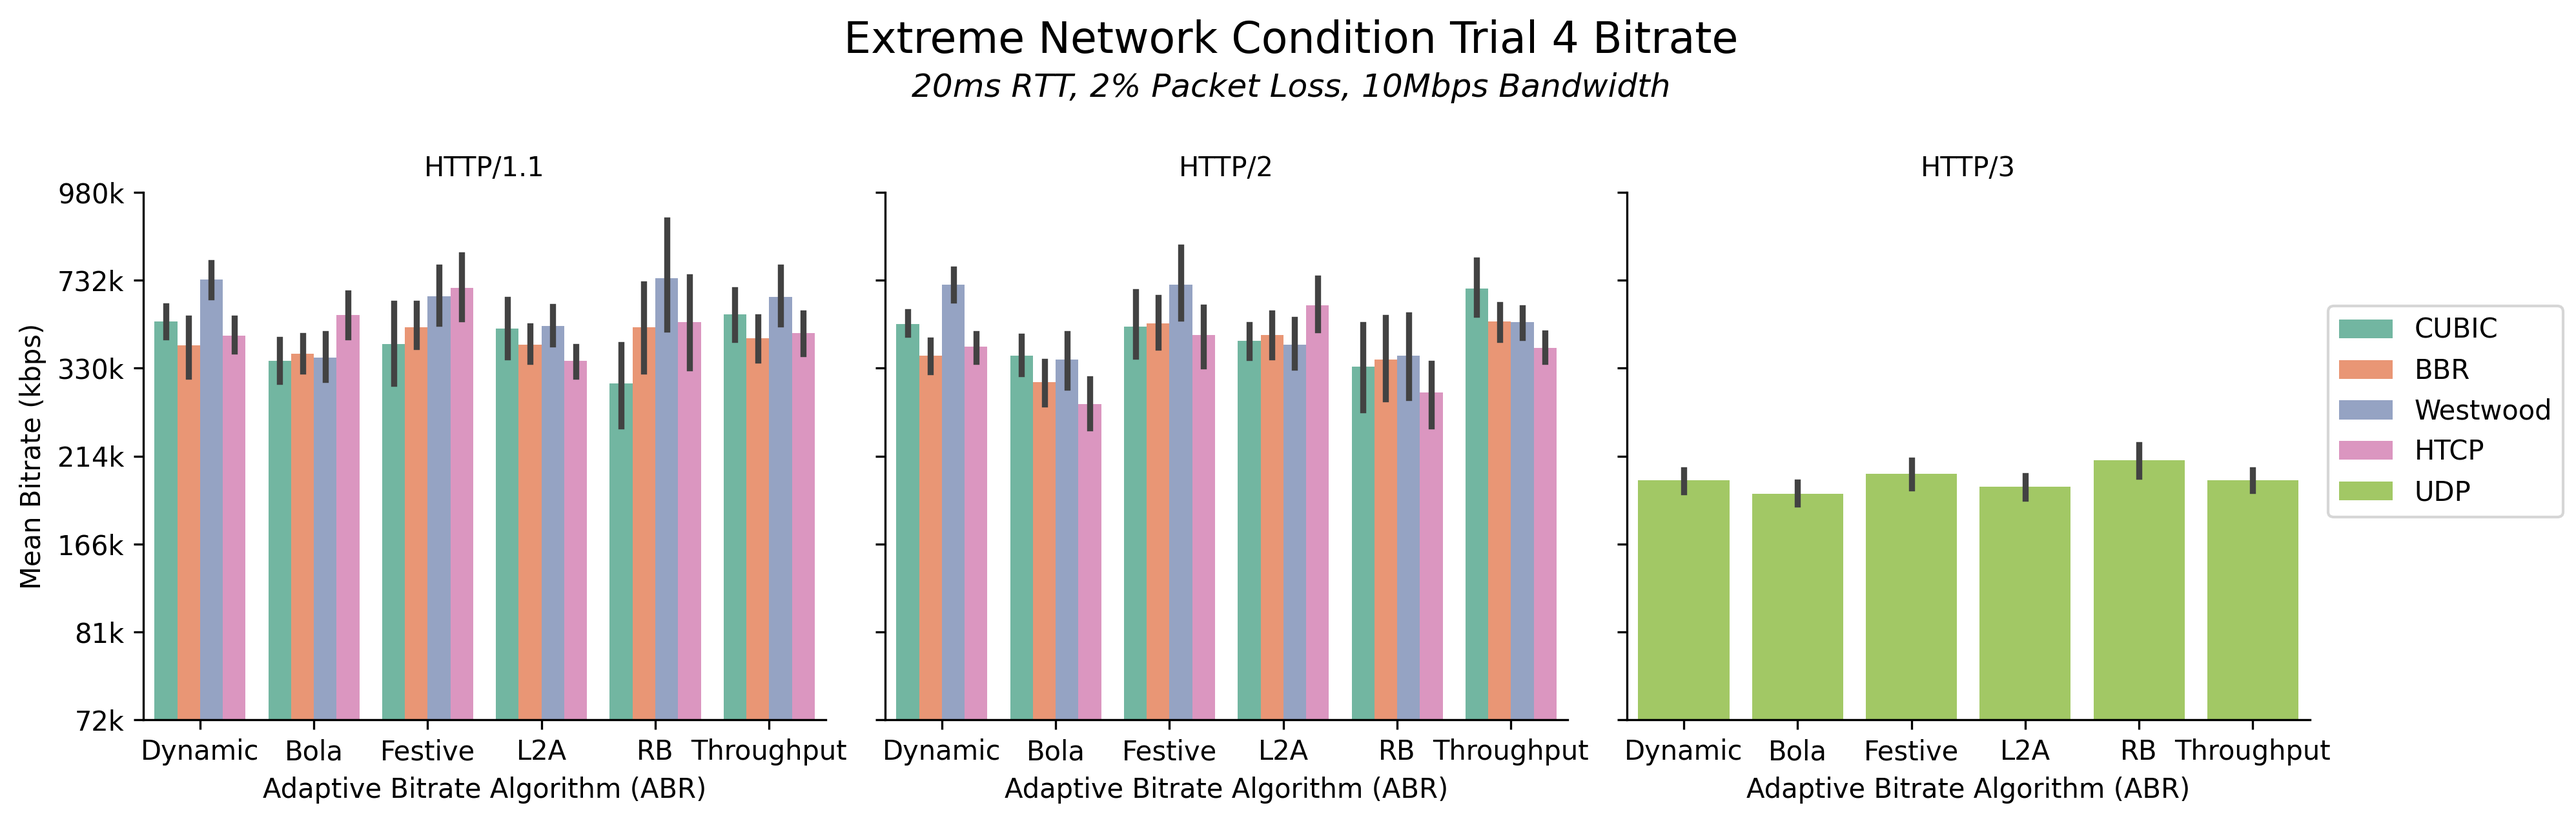
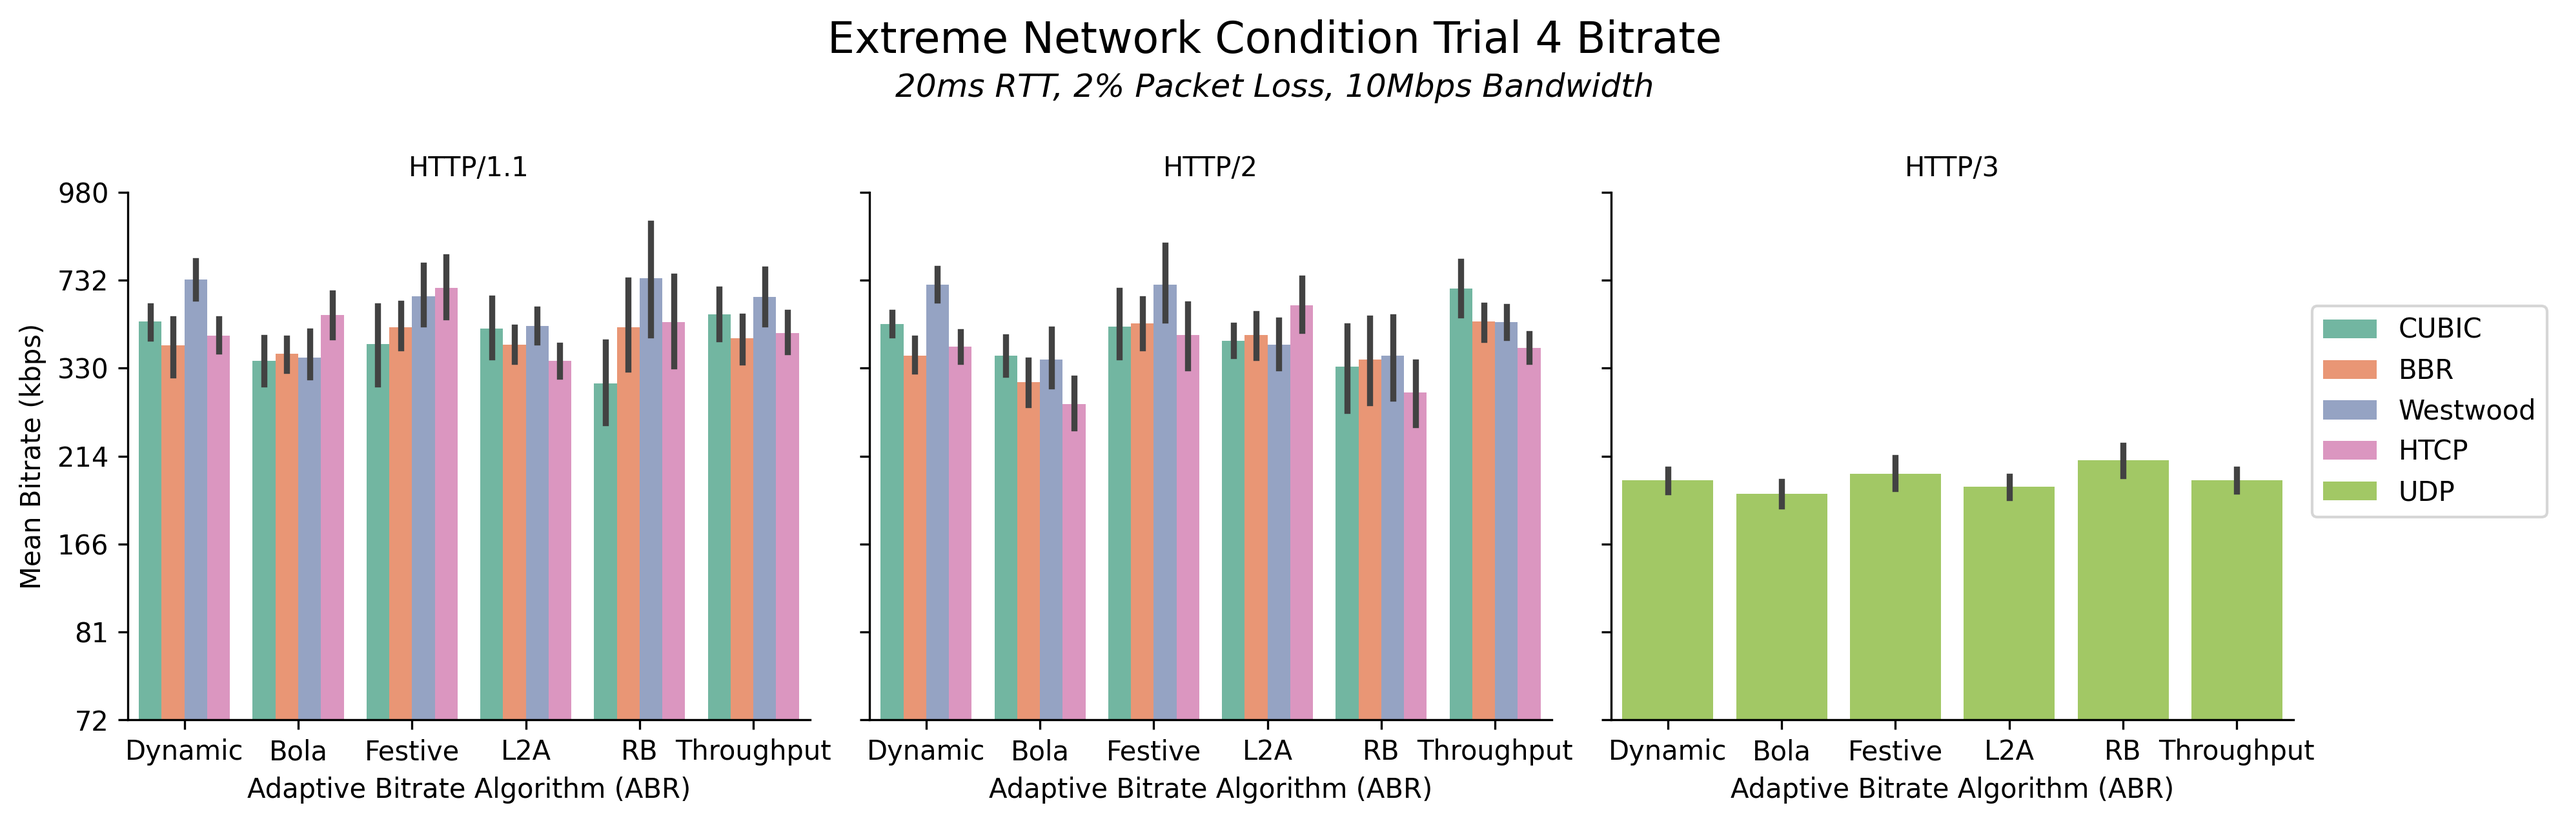
new charts

diff --git a/analysis/main.py b/analysis/main.py
@@ -5,33 +5,33 @@ import seaborn as sns
 import numpy as np
 
 index_bitrate_map = {
-    0: "72k",
-    1: "76k",
-    2: "81k",
-    3: "84k",
-    4: "166k",
-    5: "169k",
-    6: "214k",
-    7: "320k",
-    8: "330k",
-    9: "635k",
-    10: "732k",
-    11: "674k",
-    12: "980k",
-    13: "1106k",
-    14: "1499k",
-    15: "2074k",
-    16: "1226k",
-    17: "1767k",
-    18: "2781k",
-    19: "2974k",
-    20: "4692k",
-    21: "3486k",
-    22: "4676k",
-    23: "8631k",
-    24: "6978k",
-    25: "13308k",
-    26: "18625k"
+    0: "72",
+    1: "76",
+    2: "81",
+    3: "84",
+    4: "166",
+    5: "169",
+    6: "214",
+    7: "320",
+    8: "330",
+    9: "635",
+    10: "732",
+    11: "674",
+    12: "980",
+    13: "1106",
+    14: "1499",
+    15: "2074",
+    16: "1226",
+    17: "1767",
+    18: "2781",
+    19: "2974",
+    20: "4692",
+    21: "3486",
+    22: "4676",
+    23: "8631",
+    24: "6978",
+    25: "13308",
+    26: "18625"
 }
     
 
